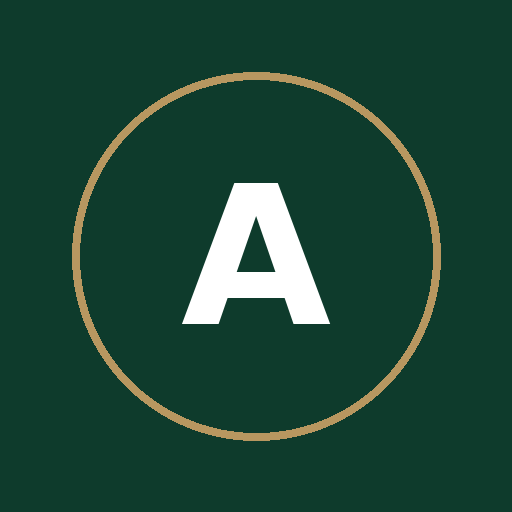
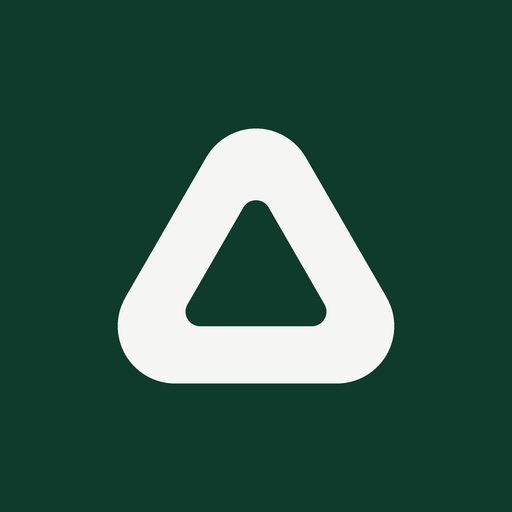
Иконки приложений: знак-треугольник (магазин — зелёный, панель — чёрный с золотом)
Claude-Session: https://claude.ai/code/session_013wUk4EA5KnT2Eun5wjG91A

Changed region(s): [[0.125, 0.125, 0.875, 0.875]]

diff --git a/sw.js b/sw.js
@@ -1,7 +1,7 @@
 // AMURA: сайт открывается мгновенно, как приложение.
 // Страница и фото — из памяти телефона сразу, в фоне обновляются.
 // Живые остатки, заказы и вход (сервер) — только из сети, не кэшируются.
-const V = "amura-v28";
+const V = "amura-v29";
 self.addEventListener("install", e => { self.skipWaiting(); e.waitUntil(caches.open(V).then(c => c.addAll(["./", "index.html", "manifest.webmanifest", "icon-192.png", "icon-180.png"]))); });
 self.addEventListener("activate", e => { e.waitUntil(caches.keys().then(ks => Promise.all(ks.filter(k => k !== V).map(k => caches.delete(k)))).then(() => self.clients.claim())); });
 self.addEventListener("fetch", e => {
